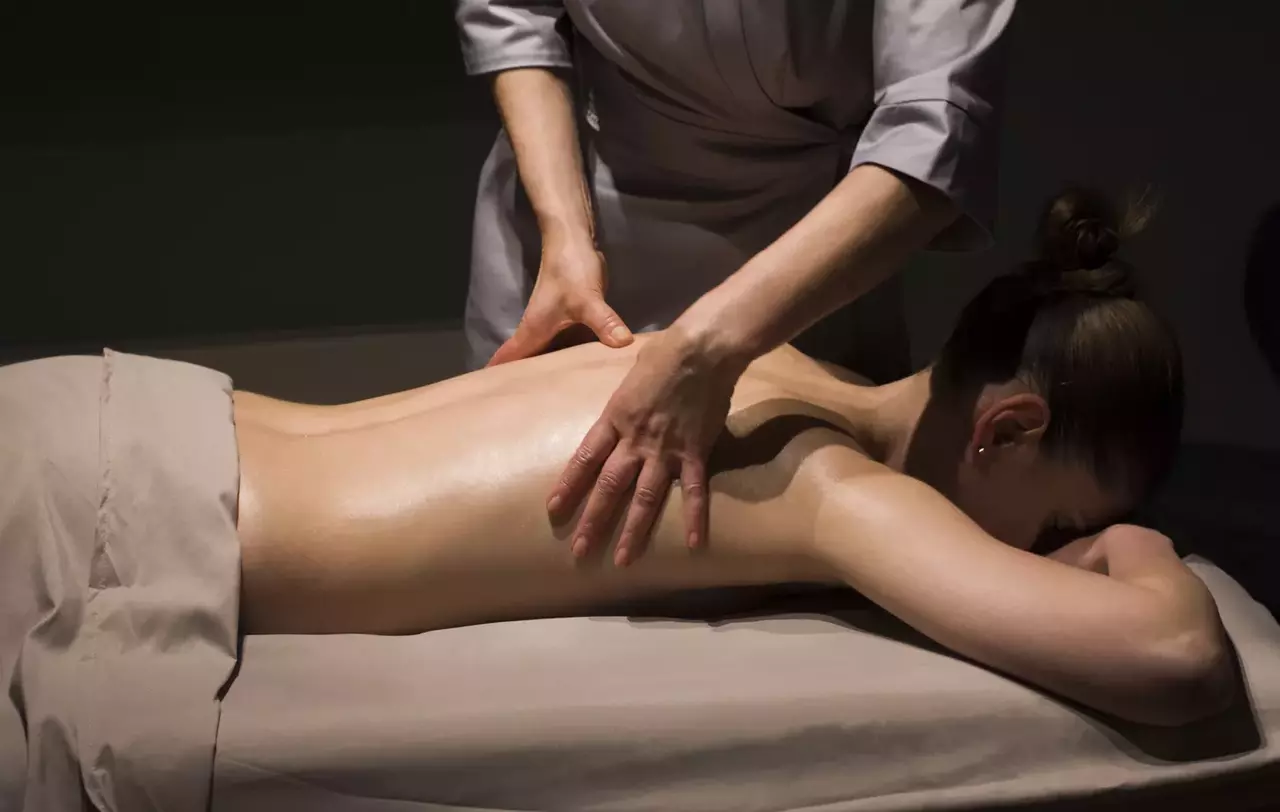
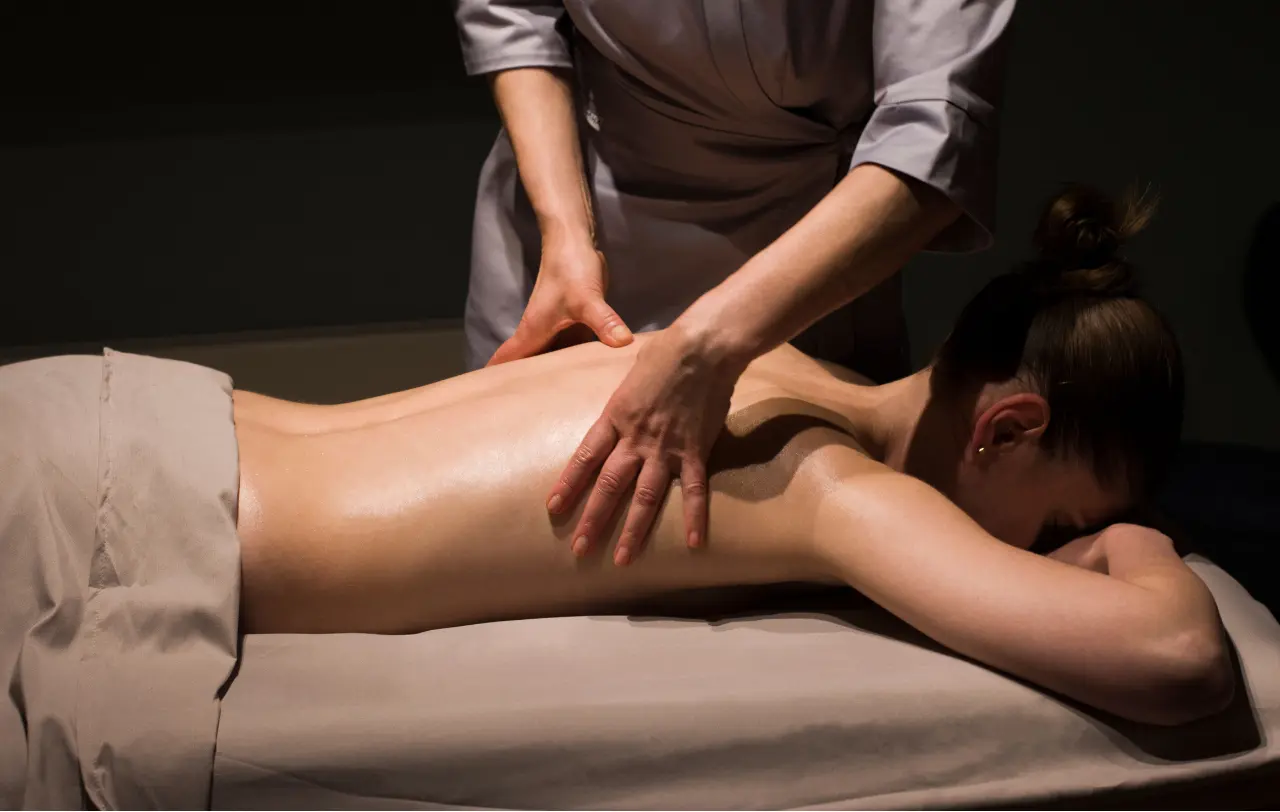
responsiveness fixed

diff --git a/src/components/Servises.jsx b/src/components/Servises.jsx
@@ -61,7 +61,7 @@ const TreatmentItem = ({booking}) => {
     ./assets/handback-320w.webp 320w,
     ./assets/handback-480w.webp 480w,
     ./assets/handback-668w.webp 668w,
-    ./assets/handback-668w.webp 1280w,
+    ./assets/handback-1280w.webp 1280w,
   `}
             sizes="(max-width: 600px) 320px, (max-width: 960px) 480px, (max-width: 1280px) 680px, 1280px"
           />
